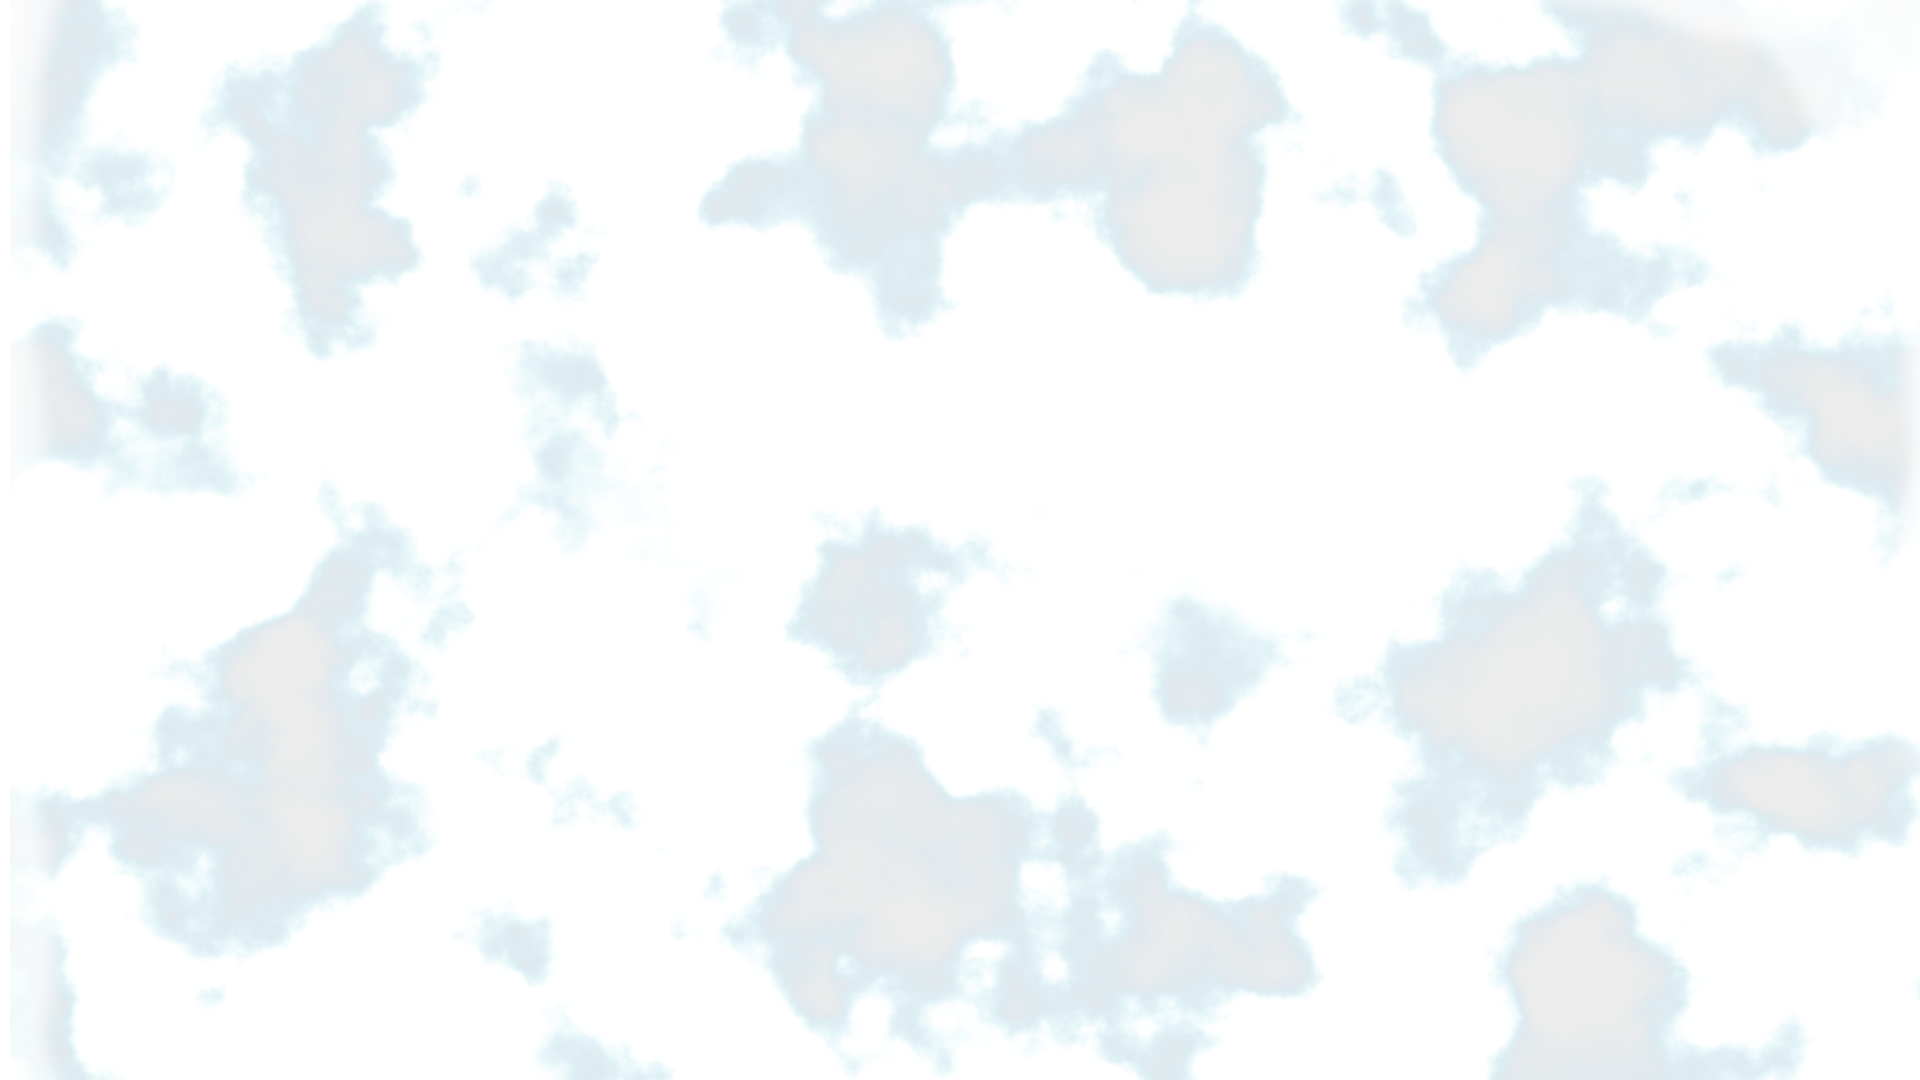
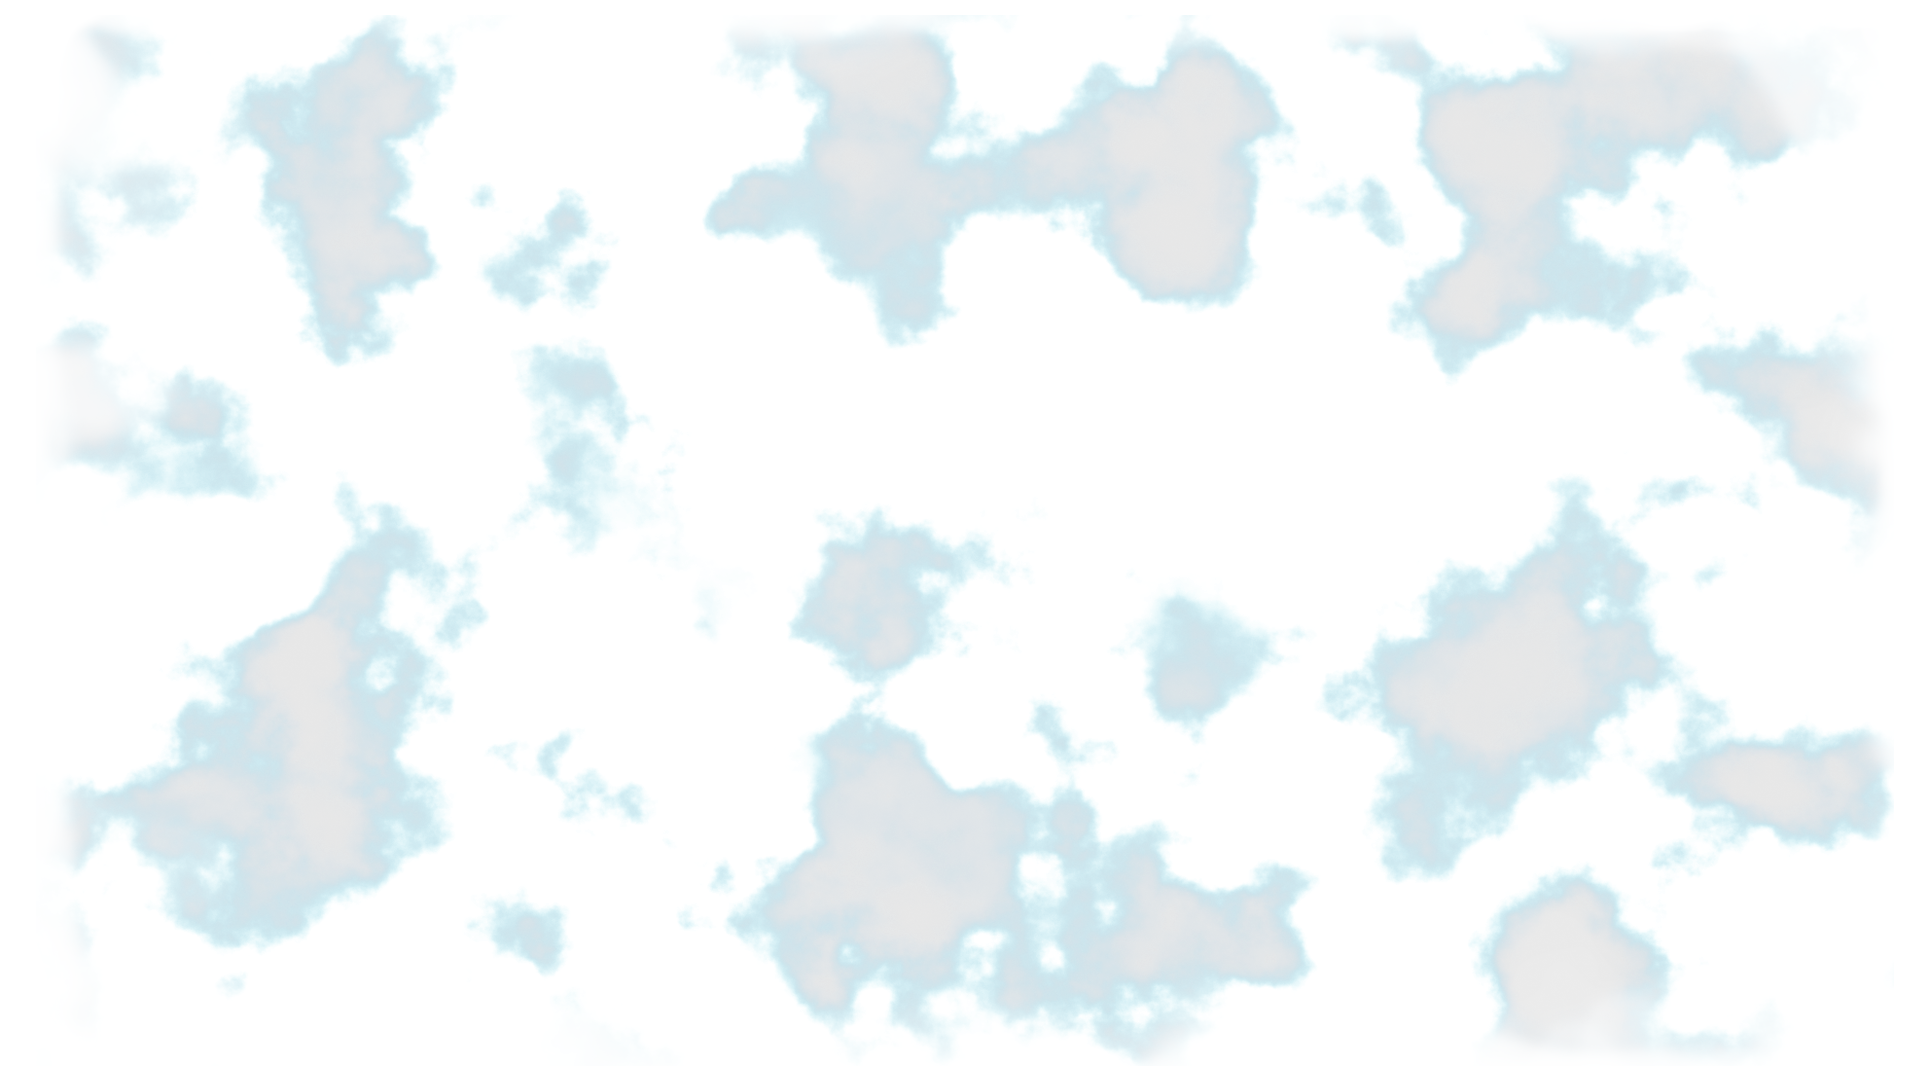
push

diff --git a/new-congobid-03-old/public/css/style.scss b/new-congobid-03-old/public/css/style.scss
@@ -841,6 +841,20 @@ i{
         border-radius: 12px;
         padding: 2px 5px;
         position: relative;
+        .block-foudre{
+            position: absolute;
+            width: 100%;
+            height: 100%;
+            top: 0;
+            left: 0;
+            display: block;
+
+            img{
+                width: 100%;
+                height: 100%;
+                object-fit: cover;
+            }
+        }
         .block-chaine{
             position: absolute;
             width: 100%;
@@ -937,6 +951,11 @@ i{
             font-weight: 700;
         }
     }
+    .block-first.fourdre{
+        .block-foudre{
+            display: block;
+        }
+    }
     .block-first.protected{
         svg{
             path{
@@ -996,6 +1015,20 @@ i{
         .header-table{
             background: #f2b815;
             border-bottom: 1px solid var(--blackColor);
+            position: relative;
+            .block-foudre{
+                position: absolute;
+                width: 100%;
+                height: 100%;
+                top: 0;
+                left: 0;
+                display: block;
+                img{
+                    width: 100%;
+                    height: 100%;
+                    object-fit: cover;
+                }
+            }
             .header-content{
                 position: relative;
                 padding: 7px 10px;
@@ -1082,6 +1115,11 @@ i{
                 }
             }
         }
+        .header-table.foudre{
+            .block-foudre{
+                display: block;
+            }
+        }
         .header-table.protected{
             background: linear-gradient(to bottom, #84f2CC, #fcffaf);
             .num{
@@ -1108,6 +1146,21 @@ i{
                 width: 100%;
                 display: flex;
                 align-items: center;
+                position: relative;
+                .block-foudre{
+                    position: absolute;
+                    width: 100%;
+                    height: 100%;
+                    top: 0;
+                    left: 0;
+                    display: none;
+                    z-index: 1;
+                    img{
+                        width: 100%;
+                        height: 100%;
+                        object-fit: cover;
+                    }
+                }
                 .img-green{
                     display: none;
                 }
@@ -1203,6 +1256,11 @@ i{
                             box-shadow: 15px 15px 18px 0px rgba(0, 0, 0, 0.1), inset -0px -0px 3px 0px rgba(0, 0, 0, 0.2), inset 0px 7px 10px 0px rgb(255, 255, 255);
                         }
                     }
+                }
+            }
+            .items.foudre{
+                .block-foudre{
+                    display: block;
                 }
             }
             .items.protected{

diff --git a/new-congobid-03-old/public/css/style.css b/new-congobid-03-old/public/css/style.css
@@ -1038,6 +1038,22 @@ i::before {
   position: relative;
 }
 
+.block-bid .block-first .block-foudre {
+  position: absolute;
+  width: 100%;
+  height: 100%;
+  top: 0;
+  left: 0;
+  display: block;
+}
+
+.block-bid .block-first .block-foudre img {
+  width: 100%;
+  height: 100%;
+  -o-object-fit: cover;
+     object-fit: cover;
+}
+
 .block-bid .block-first .block-chaine {
   position: absolute;
   width: 100%;
@@ -1174,6 +1190,10 @@ i::before {
   font-weight: 700;
 }
 
+.block-bid .block-first.fourdre .block-foudre {
+  display: block;
+}
+
 .block-bid .block-first.protected svg path {
   fill: #84f2CC !important;
 }
@@ -1243,6 +1263,23 @@ i::before {
 .block-bid .table-user .header-table {
   background: #f2b815;
   border-bottom: 1px solid var(--blackColor);
+  position: relative;
+}
+
+.block-bid .table-user .header-table .block-foudre {
+  position: absolute;
+  width: 100%;
+  height: 100%;
+  top: 0;
+  left: 0;
+  display: block;
+}
+
+.block-bid .table-user .header-table .block-foudre img {
+  width: 100%;
+  height: 100%;
+  -o-object-fit: cover;
+     object-fit: cover;
 }
 
 .block-bid .table-user .header-table .header-content {
@@ -1361,6 +1398,10 @@ i::before {
           box-shadow: 15px 15px 18px 0px rgba(0, 0, 0, 0.1), inset 0px 0px 3px 0px rgba(0, 0, 0, 0.2), inset 0px 7px 10px 0px white;
 }
 
+.block-bid .table-user .header-table.foudre .block-foudre {
+  display: block;
+}
+
 .block-bid .table-user .header-table.protected {
   background: -webkit-gradient(linear, left top, left bottom, from(#84f2CC), to(#fcffaf));
   background: linear-gradient(to bottom, #84f2CC, #fcffaf);
@@ -1400,6 +1441,24 @@ i::before {
   -webkit-box-align: center;
       -ms-flex-align: center;
           align-items: center;
+  position: relative;
+}
+
+.block-bid .table-user .all-user .items .block-foudre {
+  position: absolute;
+  width: 100%;
+  height: 100%;
+  top: 0;
+  left: 0;
+  display: none;
+  z-index: 1;
+}
+
+.block-bid .table-user .all-user .items .block-foudre img {
+  width: 100%;
+  height: 100%;
+  -o-object-fit: cover;
+     object-fit: cover;
 }
 
 .block-bid .table-user .all-user .items .img-green {
@@ -1531,6 +1590,10 @@ i::before {
   background-color: white;
   -webkit-box-shadow: 15px 15px 18px 0px rgba(0, 0, 0, 0.1), inset 0px 0px 3px 0px rgba(0, 0, 0, 0.2), inset 0px 7px 10px 0px white;
           box-shadow: 15px 15px 18px 0px rgba(0, 0, 0, 0.1), inset 0px 0px 3px 0px rgba(0, 0, 0, 0.2), inset 0px 7px 10px 0px white;
+}
+
+.block-bid .table-user .all-user .items.foudre .block-foudre {
+  display: block;
 }
 
 .block-bid .table-user .all-user .items.protected a {

diff --git a/new-congobid-03-old/resources/views/livewire/counterbid.blade.php b/new-congobid-03-old/resources/views/livewire/counterbid.blade.php
@@ -51,23 +51,27 @@
                 <img src="{{asset('images/nuages/NUAGE1.png')}}" alt="">
             </div>
             <div class="cloud">
-                <img src="{{asset('images/nuages/NUAGE1.png')}}" alt="">
+                <img src="{{asset('images/nuages/NUAGE2.png')}}" alt="">
             </div>
             <div class="cloud">
-                <img src="{{asset('images/nuages/NUAGE1.png')}}" alt="">
+                <img src="{{asset('images/nuages/NUAGE3.png')}}" alt="">
             </div>
             <div class="cloud">
-                <img src="{{asset('images/nuages/NUAGE1.png')}}" alt="">
+                <img src="{{asset('images/nuages/NUAGE4.png')}}" alt="">
             </div>
         </div>
         <div class="cloud-content">
             <div class="cloud">
+                <img src="{{asset('images/nuages/NUAGE1.png')}}" alt="">
             </div>
             <div class="cloud">
+                <img src="{{asset('images/nuages/NUAGE2.png')}}" alt="">
             </div>
             <div class="cloud">
+                <img src="{{asset('images/nuages/NUAGE3.png')}}" alt="">
             </div>
             <div class="cloud">
+                <img src="{{asset('images/nuages/NUAGE4.png')}}" alt="">
             </div>
         </div>
     </div>
@@ -107,6 +111,9 @@
                 </div>
             @endif
             <div class="block-first card mb-2 protected">
+                <div class="block-foudre">
+                    <img src="{{asset('images/e.png')}}" alt="">
+                </div>
                 @if ($liste_one->user->sanctions?->where('enchere_id',$enchere->id)->where('santance','roi')->where('deleted_at',null)->first()?->santance == 'roi')
                     <div class="block-chaine">
                         <div>
@@ -273,6 +280,9 @@
                 @if (!($liste_one->user?->id == Auth::user()->id))
                     <div class="header-table protected" data-bs-toggle="modal"
                         data-bs-target="#modalEnchere_{{ $liste_one->user->id ?? '' }}">
+                        <div class="block-foudre">
+                            <img src="{{asset('images/e.png')}}" alt="">
+                        </div>
                         <div class="d-flex align-items-center justify-content-between header-content">
                                 @if (Auth::user()->sanctions?->where('enchere_id',$enchere->id)->where('santance','roi')->where('deleted_at',null)->first()?->santance == 'roi')
                                     <div class="block-chaine">
@@ -340,8 +350,11 @@
                 <div class="all-user d-flex flex-grow-1">
                     @if ($listes->count() > 0)
                         @foreach ($listes as $key => $liste)
-                            <div class="items protected" data-bs-toggle="modal"
+                            <div class="items foudre" data-bs-toggle="modal"
                                 data-bs-target="#modalEnchere_{{ $liste->user->id ?? '' }}">
+                                <div class="block-foudre">
+                                    <img src="{{asset('images/e.png')}}" alt="">
+                                </div>
                                 <div class="num">
                                     {{ $key + 2 }}
                                 </div>
